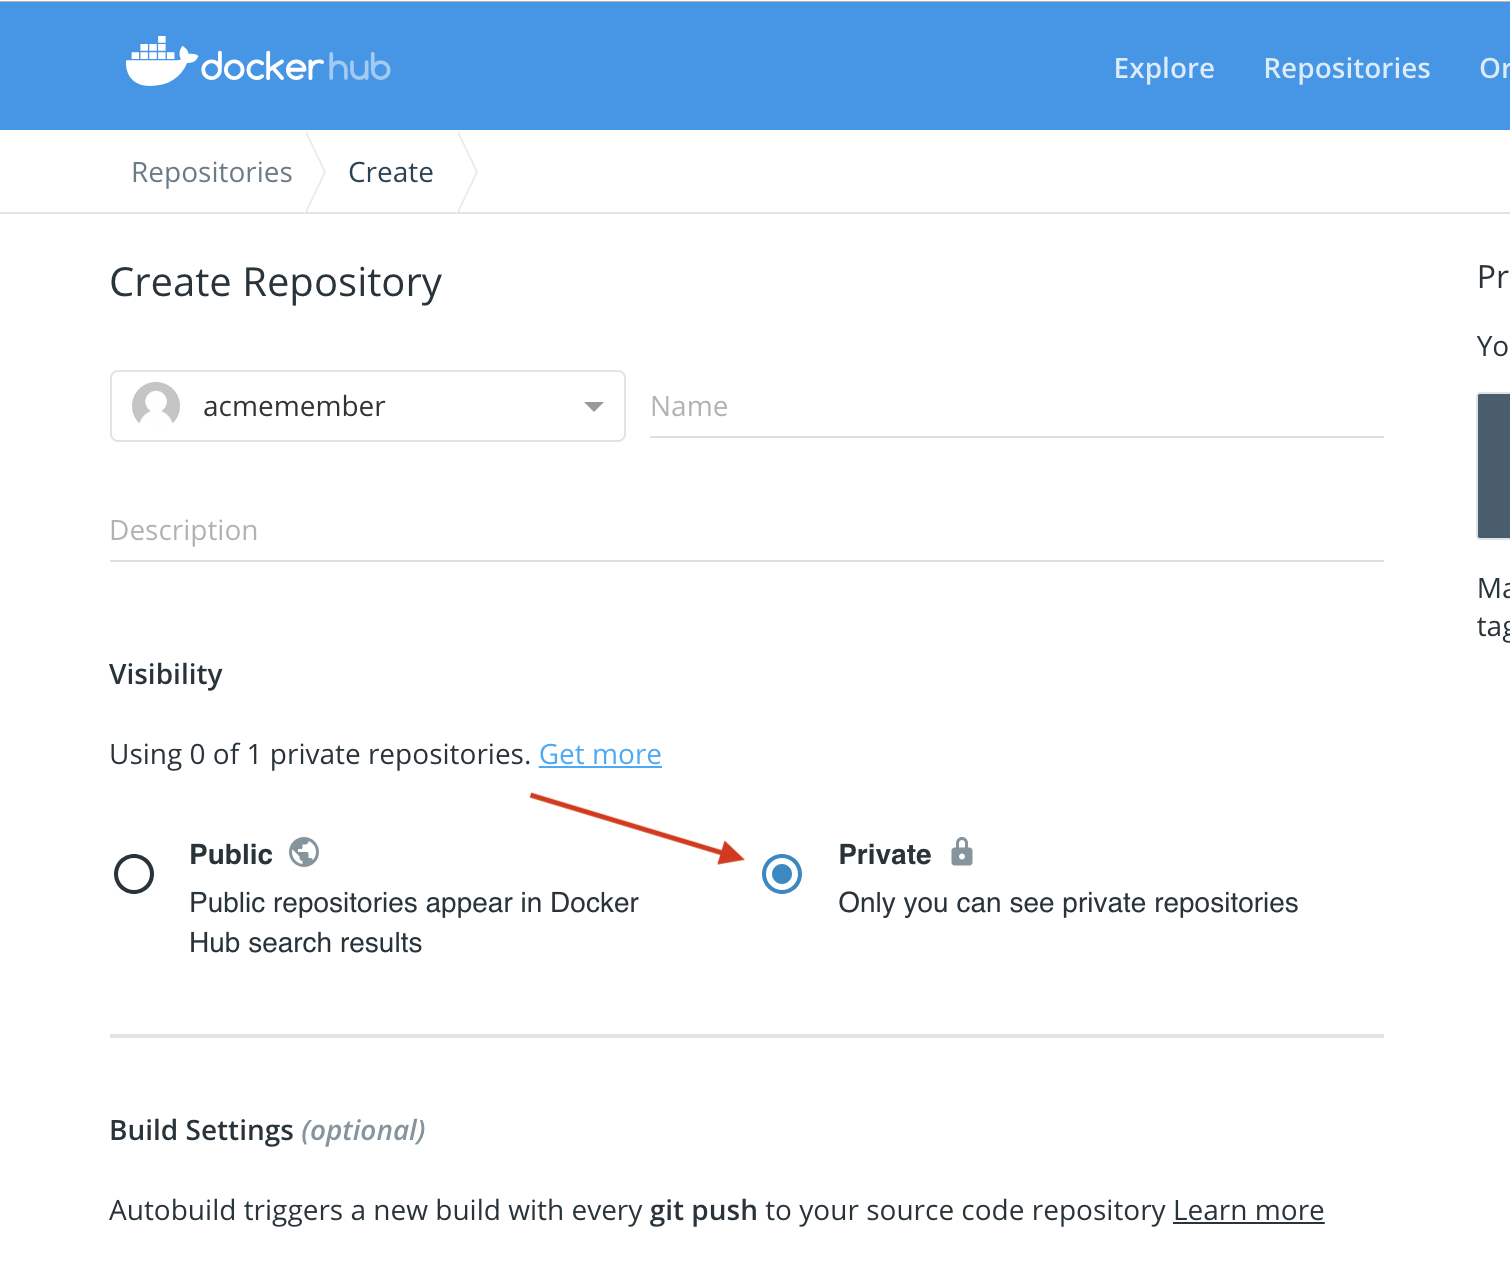
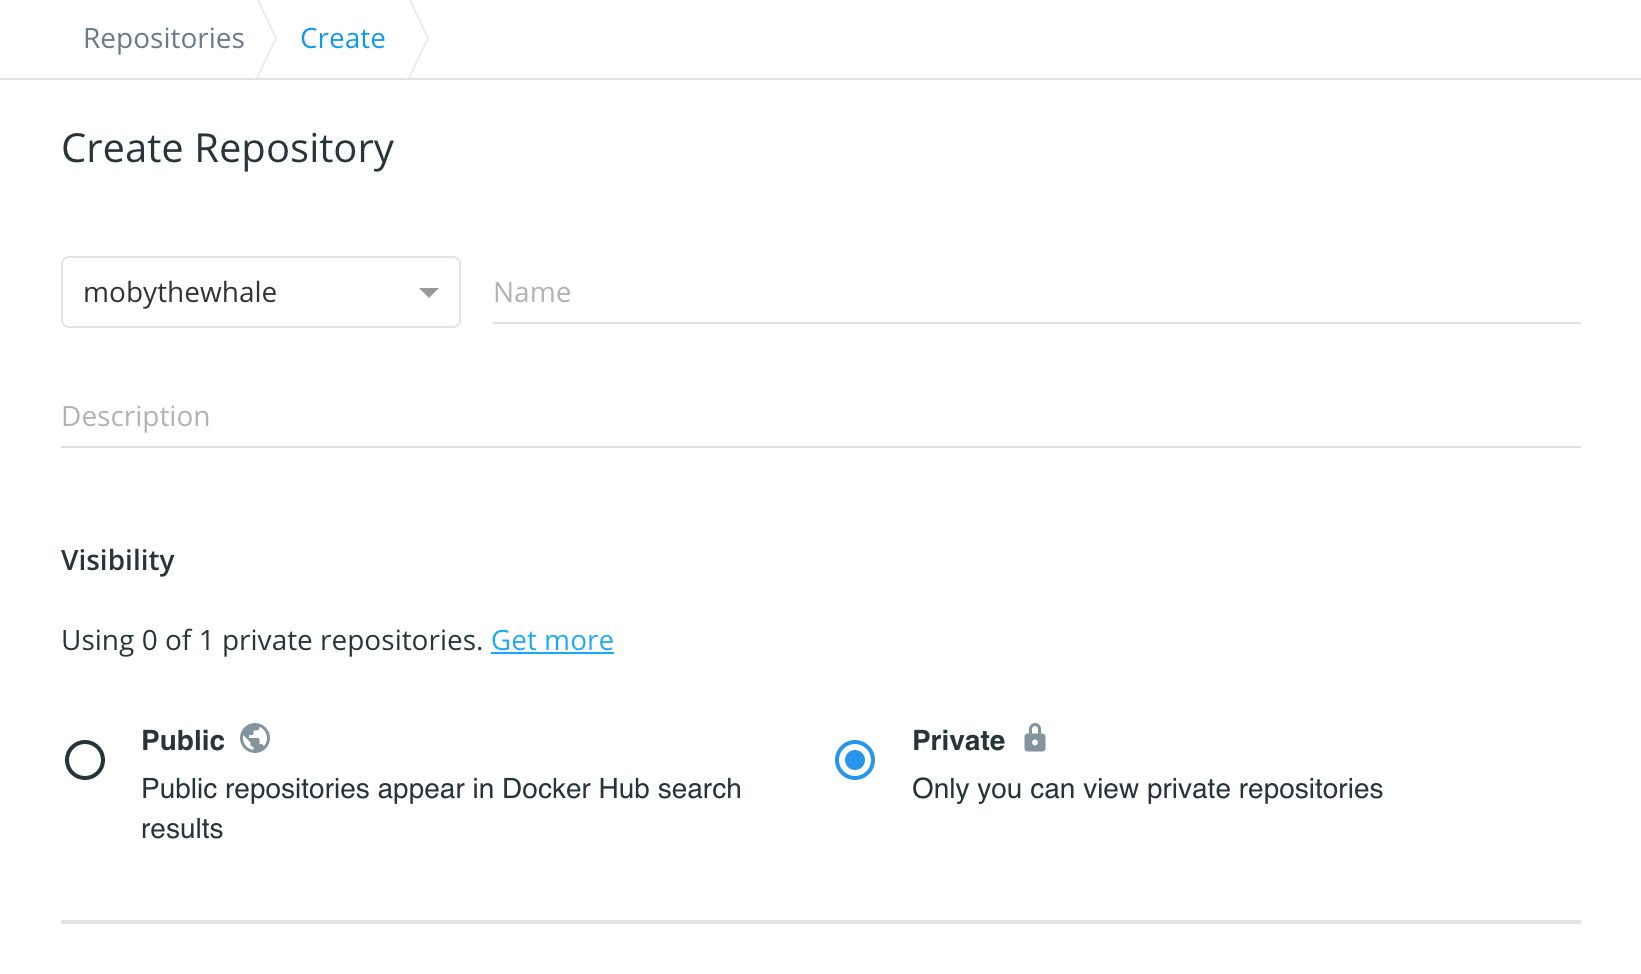
updates to repos page based on cloud and Hub UI consolidation

diff --git a/docker-hub/repos.md b/docker-hub/repos.md
@@ -9,40 +9,51 @@ customers, or the Docker community at large.
 
 Docker images are pushed to Docker Hub through the [`docker push`](https://docs.docker.com/engine/reference/commandline/push/) command. A single Docker Hub repository can hold many Docker images (stored as **tags**).
 
-## Creating Repositories
+## Creating repositories
 
-To create a repository, sign into Docker Hub, click on **Repositories** then **Create Repo**:
+To create a repository, sign into Docker Hub, click on **Repositories** then **Create Repository**:
 
 ![Create repo](images/repos-create.png)
 
-When creating a new repository, you can choose to put it in your Docker ID
-namespace, or that of any [Organization](/docker-hub/orgs.md) that you are in the "Owners"
-team. The Repository Name needs to be unique in that namespace, can be two
+When creating a new repository:
+
+ * You can choose to put it in your Docker ID
+namespace, or in any [organization](/docker-hub/orgs.md) where you are an
+[_owner_](/orgs/#the-owners-team).
+
+* The repository name needs to be unique in that namespace, can be two
 to 255 characters, and can only contain lowercase letters, numbers or `-` and
 `_`.
 
-The "Short Description" of 100 characters is used in the search results,
-while the "Full Description" can be used as the Readme for the repository, and
-can use Markdown to add simple formatting.
+* The description can be up to 100 characters and is used in the search
+result.
 
-After you hit the "Create" button, you then need to `docker push` images to that
-Hub based repository.
+* You can link a GitHub or Bitbucket account now, or choose to do it
+later in the repository settings.
+
+![Setting page for creating a repo](images/repo-create-details.png)
+
+
+After you hit the **Create** button, you can start using `docker push` to push images to this repository.
 
 ## Pushing a Docker container image to Docker Hub
 
-To push a repository to the Docker Hub, you must
-name your local image using your Docker Hub username, and the
-repository name that you created through Docker Hub on the web.
+To push an image to Docker Hub, you must first name your local image using your
+Docker Hub username and the repository name that you created through Docker Hub
+on the web.
 
-You can add multiple images to a repository, by adding a specific `:<tag>` to
-it (for example `docs/base:testing`). If it's not specified, the tag defaults to
-`latest`.
+You can add multiple images to a repository by adding a specific `:<tag>` to
+them (for example `docs/base:testing`). If it's not specified, the tag defaults
+to `latest`.
 
-You can name your local images either when you build it, using
-`docker build -t <hub-user>/<repo-name>[:<tag>]`,
-by re-tagging an existing local image `docker tag <existing-image> <hub-user>/<repo-name>[:<tag>]`,
-or by using `docker commit <existing-container> <hub-user>/<repo-name>[:<tag>]` to commit
-changes.
+Name your local images using one of these methods:
+* When you build them, using
+`docker build -t <hub-user>/<repo-name>[:<tag>]`
+
+* By re-tagging an existing local image `docker tag <existing-image> <hub-user>/<repo-name>[:<tag>]`
+
+* By using `docker commit <existing-container> <hub-user>/<repo-name>[:<tag>]`
+to commit changes
 
 Now you can push this repository to the registry designated by its name or tag.
 
@@ -51,22 +62,22 @@ Now you can push this repository to the registry designated by its name or tag.
 The image is then uploaded and available for use by your teammates and/or
 the community.
 
-## Private Repositories
+## Private repositories
 
-Private repositories allow you keep container images private, either to your own account or within an organization or
-team.
+Private repositories let you keep container images private, either to your
+own account or within an organization or team.
 
-To create a private repo select **Private** when creating a private repo:
+To create a private repository, select **Private** when creating a repository:
 
 ![Create Private Repo](images/repo-create-private.png)
 
-You can also make an existing repository private by going to the repo's **Settings** tab:
+You can also make an existing repository private by going to its **Settings** tab:
 
 ![Convert Repo to Private](images/repo-make-private.png)
 
-You get one private repository for free with your Docker Hub user account (not usable for
-organizations you're a member of). If you need more private repositories for your user account, upgrade
-your Docker Hub plan from your [Billing Information](https://hub.docker.com/billing/plan) page.
+You get one private repository for free with your Docker Hub user account (not
+usable for organizations you're a member of). If you need more private
+repositories for your user account, upgrade your Docker Hub plan from your [Billing Information](https://hub.docker.com/billing/plan) page.
 
 Once the private repository is created, you can `push` and `pull` images to and
 from it using Docker.
@@ -74,11 +85,10 @@ from it using Docker.
 > **Note**: You need to be signed in and have access to work with a
 > private repository.
 
-> **Note**: Private repositories are not currently available to search through the
-top-level search or `docker search`
+> **Note**: Private repositories are not currently available to search through the top-level search or `docker search`.
 
 You can designate collaborators and manage their access to a private
-repository from that repository's *Settings* page. You can also toggle the
+repository from that repository's **Settings** page. You can also toggle the
 repository's status between public and private, if you have an available
 repository slot open. Otherwise, you can upgrade your
 [Docker Hub](https://hub.docker.com/account/billing-plans/) plan.
@@ -102,53 +112,59 @@ see the [organizations documentation](/docker-hub/orgs.md).
 ## Viewing repository tags
 
 Docker Hub's individual repositories view shows you the available tags and the
-size of the associated image. Go to the "Repositories" view and click on a
+size of the associated image. Go to the **Repositories** view and click on a
 repository to see its tags.
 
-![Repository View](images/repo-view-2019.png)
+![Repository View](images/repos-create.png)
 
-![View Repo Tags](images/repos-tags-view-2019.png)
+![View Repo Tags](images/repo-overview.png)
 
 Image sizes are the cumulative space taken up by the image and all its parent
-images. This is also the disk space used by the contents of the .tar file
+images. This is also the disk space used by the contents of the `.tar` file
 created when you `docker save` an image.
 
-To view tags, click on "Tags" tab and then select a tag to view.
+To view individual tags, click on the **Tags** tab.
 
-![Manage Repo Tags](images/repos-tags-manage-2019.png)
+![Manage Repo Tags](images/repo-tags-list.png)
 
-![View Tag](images/repo-single-tag-view-2019.png)
+Select a tag's digest to view details.
+
+![View Tag](images/repo-image-layers.png)
 
 ## Searching for Repositories
 
-You can search the [Docker Hub](https://hub.docker.com) registry through its search
-interface or by using the command line interface. Searching can find images by
-image name, user name, or description:
+You can search the [Docker Hub](https://hub.docker.com) registry through its
+search interface or by using the command line interface. Searching can find
+images by image name, username, or description:
 
-    $ docker search centos
-    NAME                                 DESCRIPTION                                     STARS     OFFICIAL   AUTOMATED
-    centos                               The official build of CentOS.                   1034      [OK]
-    ansible/centos7-ansible              Ansible on Centos7                              43                   [OK]
-    tutum/centos                         Centos image with SSH access. For the root...   13                   [OK]
-    ...
+```
+$ docker search centos
+NAME                                 DESCRIPTION                                     STARS     OFFICIAL   AUTOMATED
+centos                               The official build of CentOS.                   1034      [OK]
+ansible/centos7-ansible              Ansible on Centos7                              43                   [OK]
+tutum/centos                         Centos image with SSH access. For the root...   13                   [OK]
+...
+```
 
 There you can see two example results: `centos` and `ansible/centos7-ansible`.
 The second result shows that it comes from the public repository of a user,
 named `ansible/`, while the first result, `centos`, doesn't explicitly list a
-repository which means that it comes from the top-level namespace for [Official
-Images](/docker-hub/official_images.md). The `/` character separates a user's
+repository which means that it comes from the top-level namespace for [official
+images](/docker-hub/official_images.md). The `/` character separates a user's
 repository from the image name.
 
 Once you've found the image you want, you can download it with `docker pull <imagename>`:
 
-    $ docker pull centos
-    latest: Pulling from centos
-    6941bfcbbfca: Pull complete
-    41459f052977: Pull complete
-    fd44297e2ddb: Already exists
-    centos:latest: The image you are pulling has been verified. Important: image verification is a tech preview feature and should not be relied on to provide security.
-    Digest: sha256:d601d3b928eb2954653c59e65862aabb31edefa868bd5148a41fa45004c12288
-    Status: Downloaded newer image for centos:latest
+```
+$ docker pull centos
+latest: Pulling from centos
+6941bfcbbfca: Pull complete
+41459f052977: Pull complete
+fd44297e2ddb: Already exists
+centos:latest: The image you are pulling has been verified. Important: image verification is a tech preview feature and should not be relied on to provide security.
+Digest: sha256:d601d3b928eb2954653c59e65862aabb31edefa868bd5148a41fa45004c12288
+Status: Downloaded newer image for centos:latest
+```
 
 You now have an image from which you can run containers.
 

diff --git a/docker-hub/release-notes.md b/docker-hub/release-notes.md
@@ -9,6 +9,16 @@ toc_max: 2
 Here you can learn about the latest changes, new features, bug fixes, and
 known issues for each Docker Hub release.
 
+# 2019-11-04
+
+### Enhancements
+
+* The [repositories page](https://docs.docker.com/docker-hub/repos/) and all related settings and tabs have been updated and moved from `cloud.docker.com` to `hub.docker.com`. You can access the page at its new URL: [https://hub.docker.com/repositories](https://hub.docker.com/repositories). 
+
+### Known Issues
+
+* Scan results don't appear for some official images.
+
 # 2019-10-21
 
 ### New features
@@ -17,8 +27,6 @@ known issues for each Docker Hub release.
     > If you lose both your 2FA authentication device and recovery code, you may
     > not be able to recover your account.
     {: .important }
-
-
 
 ### Enhancements
 * As a security measure, when two-factor authentication is enabled, the Docker CLI requires a personal access token instead of a password to log in.
